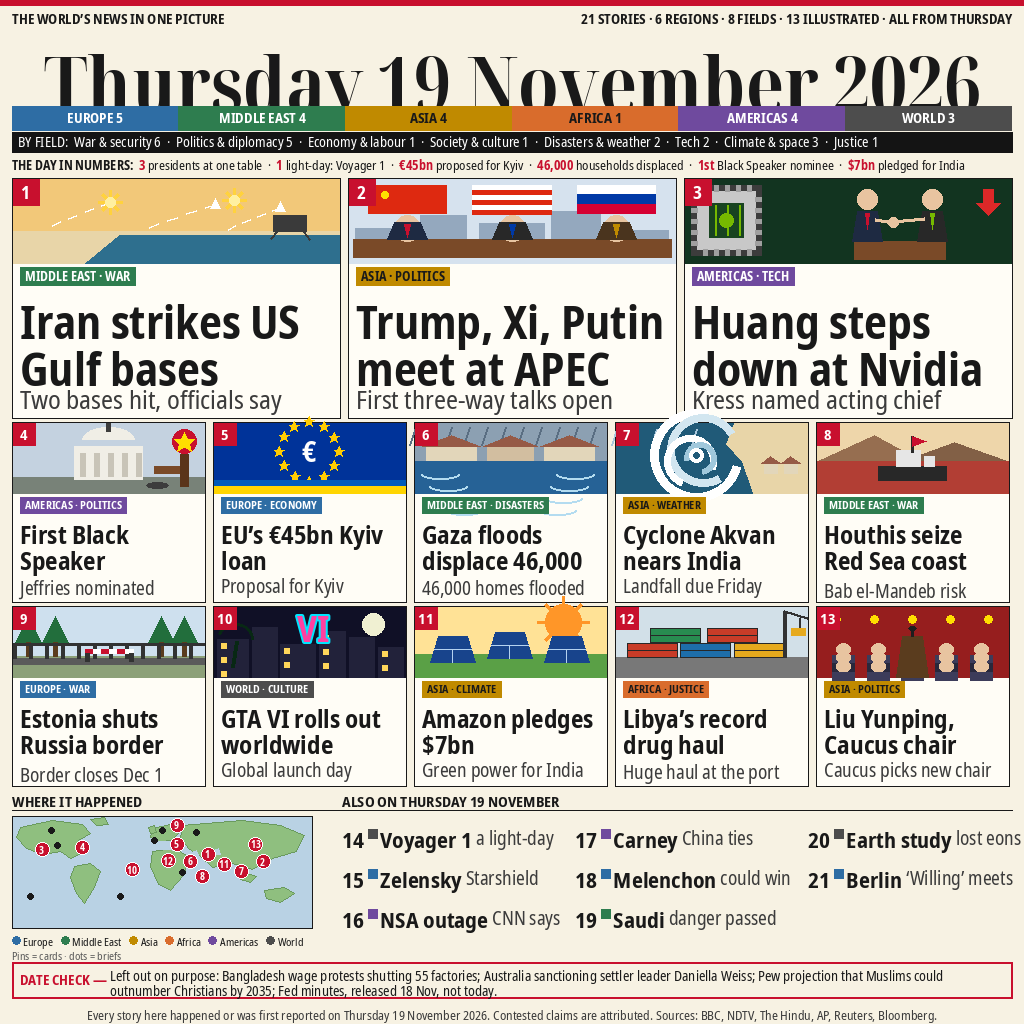
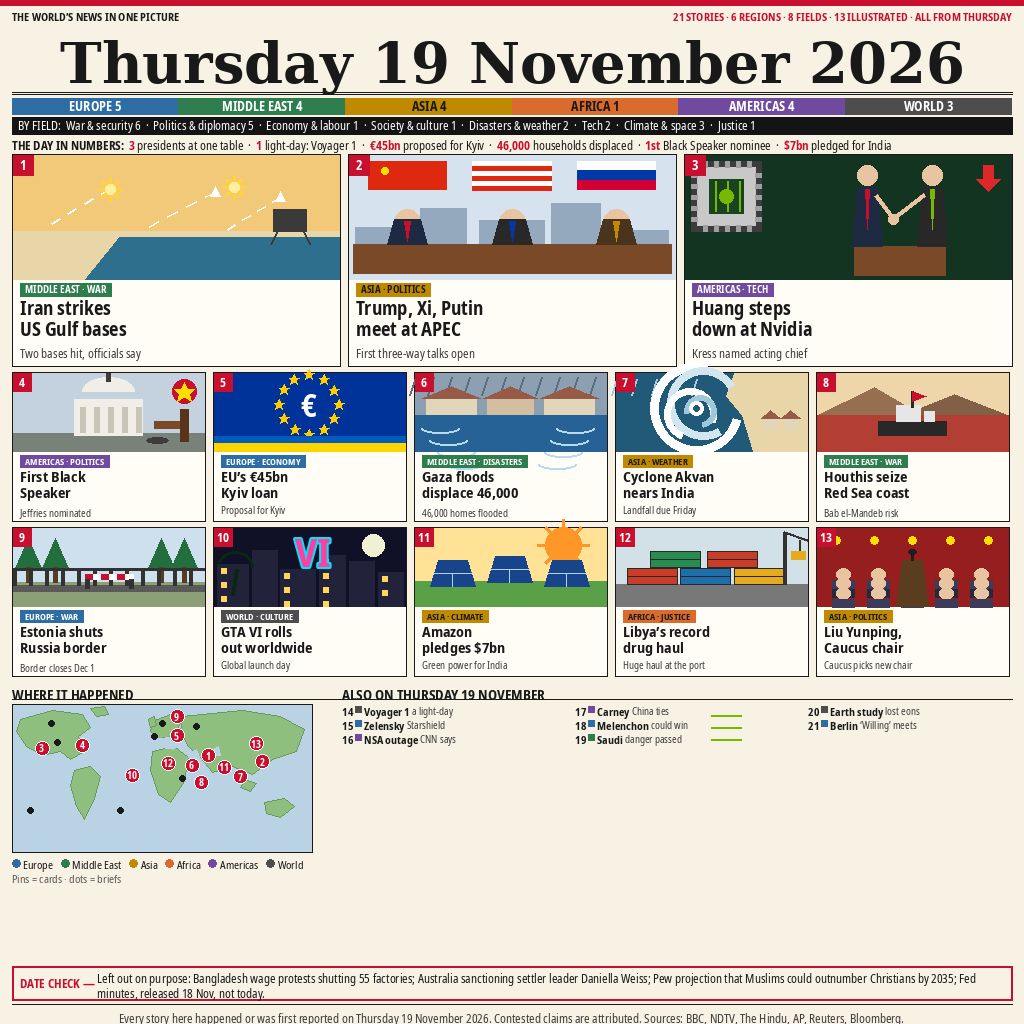
news-image-20261119 v1 fix: match reference proportions
User feedback: v1 fonts too big / not proportional vs the rank-1 reference.
Measured the reference (ronigrv, 18 Nov) by glyph measurement and rescaled
everything to its rendered cap heights, not model guesses:
- masthead: Noto Serif Display Condensed Bold 76px (cap 55) -> DejaVu Serif
  Bold 56px (cap 41, ink-top y=40, spans ~930px); double rule at y=92/94
- region bar 24px -> 16px (y=98), field bar 20px -> 17px (y=117)
- big headlines 46px (cap 33) -> 19px (cap 14), decks 26px -> 12px (cap 9)
- small headlines 25px (cap 18) -> 15px (cap 11), decks 19px -> 10px (cap 7)
- briefs 22/19px -> 11/10px, 13px pitch; top strip 14px -> 11px, right red
- big cards y178 h240 -> y154 h212; small rows y422/606 h180 -> y372/527 h149
- illustrations get the freed height: big 124px (58%), small 78px (52%)
- headlines now 2 balanced lines (reference pattern); decks bottom-anchored
  with ink-to-ink gap check; bottom section mirrors reference (headers y685,
  map 300x148, DATE CHECK y966, footer y1010 with rule at y1004)
No wording, story, bar, map, DATE CHECK or footer text changes.
Verified full-size + 300px: zero overlap/truncation, no shrink warnings.

diff --git a/compose.py b/compose.py
@@ -9,15 +9,23 @@ file's own Fed-minutes fallback applied (minutes were released 18 Nov, so the
 Fed item moved to DATE CHECK and Liu Yunping was promoted to lead 13; a
 verified 19-Nov brief, Coalition of the Willing meets in Berlin, fills #21).
 
-Type scale (better-typography: 3 faces, size by role, no light weights):
-  masthead  Noto Serif Display Condensed Bold, ~76px, lh 1.05
-  headlines Noto Sans Condensed Bold, 46px big cards / 27px small cards
-  decks     Noto Sans Condensed, 26px big / 19px small
-  labels    Noto Sans Condensed Bold, 12-14px, uppercase
-  briefs    Noto Sans Condensed Bold 22px lead-in / 19px body
-  footer    Noto Sans Condensed 13px
+Type scale (better-typography: 3 faces, size by role, no light weights).
+MEASURED from the reference (ronigrv rank-1, 18 Nov, 1024 canvas) by glyph
+measurement, not guessed: masthead cap 41px; big headlines cap 14px in 335px
+cards (ratio .042), decks cap 9px; small headlines cap 11px in 193px cards,
+decks cap 7px; briefs cap 7px; region bar 16px, field bar 17px; big-card
+illustration 63% of card height, small-card 54%. Our sizes below are set so
+the RENDERED CAP HEIGHTS match those numbers (Noto cap/em ~0.72):
+  masthead  DejaVu Serif Bold 56px (cap 41, spans ~930px like the reference)
+  headlines Noto Sans Condensed Bold, 19px big cards / 15px small cards
+  decks     Noto Sans Condensed, 12px big / 10px small
+  labels    Noto Sans Condensed Bold, 10px big / 9px small, uppercase
+  briefs    Noto Sans Condensed Bold 11px lead-in / 10px body
+  footer    Noto Sans Condensed 12px
 Layout (better-layout): 12px shared margins, 8px gaps between card groups,
 4px gaps inside cards, one card style, square corners (newsprint).
+Card geometry mirrors the reference: big cards y154 h212, small rows y372 /
+y527 h149, bottom headers y685, map 300x148, DATE CHECK y966, footer y1010.
 Colour (better-colors): one hue per region, red only for badges/emphasis;
 text on gold/orange segments is black (measured contrast), white elsewhere.
 """
@@ -61,6 +69,7 @@ FD = "/usr/share/fonts/truetype/noto"
 SERIFD = os.path.join(FD, "NotoSerifDisplay-CondensedBold.ttf")
 SANSB  = os.path.join(FD, "NotoSans-CondensedBold.ttf")
 SANS   = os.path.join(FD, "NotoSans-Condensed.ttf")
+DEJAVU_BOLD = "/usr/share/fonts/truetype/dejavu/DejaVuSerif-Bold.ttf"
 
 
 def font(path, size):
@@ -518,52 +527,82 @@ FOOTER = ("Every story here happened or was first reported on Thursday 19 Novemb
 
 
 # ---------------------------------------------------------------- layout
+def balance2(text, f, max_w):
+    """Split text into 2 balanced lines (reference headlines are all 2 lines).
+    Picks the split point minimising the widest line; falls back to greedy wrap."""
+    words = text.split()
+    if len(words) < 2:
+        return [text]
+    best = None
+    for i in range(1, len(words)):
+        a, b = " ".join(words[:i]), " ".join(words[i:])
+        if f.getlength(a) <= max_w and f.getlength(b) <= max_w:
+            w = max(f.getlength(a), f.getlength(b))
+            if best is None or w < best[0]:
+                best = (w, [a, b])
+    return best[1] if best else wrap(text, f, max_w, 2)
+
+
 def draw_card(d, card, x, y, w, h, big):
     d.rectangle([x, y, x + w, y + h], fill=CARD, outline=INK, width=1)
-    ill_h = 84 if big else 70
+    # illustration (reference: 63% of card height big, 54% small)
+    ill_h = 124 if big else 78
     card["ill"](d, x + 1, y + 1, w - 2, ill_h)
     # number badge (red = emphasis only, better-colors: one meaning)
-    bs = 26 if big else 22
+    # reference: ~20px big, ~18px small
+    bs = 20 if big else 18
     d.rectangle([x + 1, y + 1, x + 1 + bs, y + 1 + bs], fill=RED)
-    bf = font(SANSB, 18 if big else 15)
+    bf = font(SANSB, 13 if big else 12)
     d.text((x + 1 + bs / 2, y + 1 + bs / 2), str(card["n"]), font=bf,
            fill=(255, 255, 255), anchor="mm")
-    # region tag pill
+    # region tag pill (reference: pill ~13px, text cap ~7px)
     col = REGIONS[card["region"]]
     tx, ty = x + 8, y + ill_h + 5
     tag = f"{card['region']} · {card['field']}"
-    tf = font(SANSB, 13 if big else 11)
+    tf = font(SANSB, 10 if big else 9)
     tw = tf.getlength(tag)
-    th = 18 if big else 16
+    th = 13 if big else 12
     d.rectangle([tx, ty, tx + tw + 10, ty + th], fill=col)
     d.text((tx + 5, ty + th / 2), tag, font=tf, fill=REGION_TEXT[card["region"]],
            anchor="lm")
-    # headline (balanced 2-line wrap, better-typography). Placement is measured
-    # from the fonts' real ink boxes (PIL anchor "la" + Noto's 50/14 ascent/
-    # descent at 46px), not from nominal sizes, so deck can never touch it.
+    # headline: 2 balanced lines (reference headlines are all 2 lines).
+    # Placement is measured from the fonts' real ink boxes (cap-top 5px below
+    # the tag), not from nominal sizes, so the deck can never touch it.
     hx = x + 8
     hw = w - 16
-    hy = ty + th + 4
-    hsize = 46 if big else 25
+    hsize = 19 if big else 15
     hf = font(SANSB, hsize)
-    lh = 47 if big else 26
-    lines = wrap(card["headline"], hf, hw, 2)
+    lh = 21 if big else 16
+    ascent, descent = hf.getmetrics()
+    cap = hf.getbbox("H")[3] - hf.getbbox("H")[1]
+    hy = ty + th + 5 - (ascent - cap)
+    lines = balance2(card["headline"], hf, hw)
     if any("…" in ln for ln in lines):
         print(f"  WARNING truncated headline card {card['n']}: {card['headline']!r}")
     for i, line in enumerate(lines):
         d.text((hx, hy + i * lh), line, font=hf, fill=INK)
-    head_bottom = max(hy + i * lh + hf.getbbox(ln)[3] for i, ln in enumerate(lines))
-    # deck, one line: below the headline ink with a 4px gap, ink bottom 4px
-    # above the card edge; shrink the deck font if it cannot fit both.
-    dsize = 26 if big else 19
-    while dsize >= (22 if big else 16):
+    head_ink_bottom = (hy + (len(lines) - 1) * lh + ascent
+                       + (descent if any(c in "gjpqy" for ln in lines for c in ln) else 0))
+    # deck, one line: bottom-anchored, ink bottom 4px above the card edge,
+    # with at least a 2px gap below the headline ink; shrink if it cannot fit.
+    dsize = 12 if big else 10
+    df = font(SANS, dsize)
+    while dsize > (10 if big else 8):
         df = font(SANS, dsize)
-        db = df.getbbox(card["deck"])
-        dy = max(head_bottom + 4 - db[1], y + h - 4 - db[3])
-        if dy + db[3] <= y + h - 2:
+        dasc, ddesc = df.getmetrics()
+        deff = ddesc if any(c in "gjpqy" for c in card["deck"]) else 0
+        dy = (y + h - 4) - (dasc + deff)
+        # compare INK to ink: the deck's ink starts (ascent - cap) below its
+        # anchor, so a 2px ink gap is dy + (dasc - cap) - head_ink_bottom
+        dcap = df.getbbox("H")[3] - df.getbbox("H")[1]
+        if dy + (dasc - dcap) - head_ink_bottom >= 2:
             break
         dsize -= 1
-    if dsize < (26 if big else 19):
+    df = font(SANS, dsize)
+    dasc, ddesc = df.getmetrics()
+    deff = ddesc if any(c in "gjpqy" for c in card["deck"]) else 0
+    dy = (y + h - 4) - (dasc + deff)
+    if dsize < (12 if big else 10):
         print(f"  deck shrunk card {card['n']} to {dsize}px")
     if df.getlength(card["deck"]) > hw:
         print(f"  WARNING deck overflow card {card['n']}: {card['deck']!r}")
@@ -647,45 +686,55 @@ def main():
     log = []
 
     # top red rule + strip (better-layout: shared 12px edges)
+    # reference: strip text cap ~8px -> 11px; right half RED
     d.rectangle([0, 0, W, 5], fill=RED)
-    sf = font(SANSB, 14)
+    sf = font(SANSB, 11)
     d.text((M, 9), "THE WORLD\u2019S NEWS IN ONE PICTURE", font=sf, fill=INK)
     right = "21 STORIES \u00b7 6 REGIONS \u00b7 8 FIELDS \u00b7 13 ILLUSTRATED \u00b7 ALL FROM THURSDAY"
-    d.text((W - M, 9), right, font=sf, fill=INK, anchor="ra")
+    d.text((W - M, 9), right, font=sf, fill=RED, anchor="ra")
 
-    # masthead: serif display, fitted to the content width
-    mf, msize = fit_font(SERIFD, "Thursday 19 November 2026", CW, 76)
+    # masthead: serif, fitted to the content width, ink-top at y=40
+    # (reference: cap height 41px; DejaVu Serif Bold 56px gives cap ~41 and
+    # spans ~930px, closest metric match of the candidates measured)
+    mf, msize = fit_font(DEJAVU_BOLD, "Thursday 19 November 2026", CW, 56)
     log.append(f"masthead size {msize}")
-    d.text((W // 2, 30), "Thursday 19 November 2026", font=mf, fill=INK, anchor="ma")
+    bb = d.textbbox((W // 2, 0), "Thursday 19 November 2026", font=mf, anchor="ma")
+    d.text((W // 2, 40 - bb[1]), "Thursday 19 November 2026", font=mf,
+           fill=INK, anchor="ma")
+    # double rule under the masthead (reference: full-width rules at y=92, 94)
+    d.line([M, 92, M + CW, 92], fill=INK, width=1)
+    d.line([M, 94, M + CW, 94], fill=INK, width=1)
 
     # region bar: 6 equal segments, counts = region totals
-    ry, rh = 106, 24
+    # reference: y=98, height 16px
+    ry, rh = 98, 16
     seg = CW / 6
-    rf = font(SANSB, 14)
+    rf = font(SANSB, 13)
     for i, (name, count) in enumerate(REGION_COUNTS.items()):
         x0 = M + i * seg
         d.rectangle([x0, ry, x0 + seg, ry + rh], fill=REGIONS[name])
         d.text((x0 + seg / 2, ry + rh / 2), f"{name} {count}", font=rf,
                fill=REGION_TEXT[name], anchor="mm")
 
-    # field bar: black, white text, fitted
-    fy, fh = 132, 20
+    # field bar: black, white text, fitted (reference: y=117, height 17px)
+    fy, fh = 117, 17
     d.rectangle([M, fy, M + CW, fy + fh], fill=BAR_BLK)
     field_txt = "BY FIELD:  " + "  \u00b7  ".join(f"{n} {c}" for n, c in FIELD_COUNTS)
-    ff, fsize = fit_font(SANS, field_txt, CW - 12, 14)
+    ff, fsize = fit_font(SANS, field_txt, CW - 12, 12)
     log.append(f"field bar size {fsize}")
     d.text((M + 6, fy + fh / 2), field_txt, font=ff, fill=(255, 255, 255),
            anchor="lm")
 
     # day-in-numbers: date-stamped facts only, numbers in red
-    ny = 156
+    # reference: strip sits just below the field bar, ~12px type
+    ny = 137
     parts = [("THE DAY IN NUMBERS:  ", INK, True)]
     for i, (num, txt) in enumerate(NUMBERS):
         if i:
             parts.append(("  \u00b7  ", INK, False))
         parts.append((num + " ", RED, True))
         parts.append((txt, INK, False))
-    nf, nsize = fit_font(SANS, "".join(p[0] for p in parts), CW, 14)
+    nf, nsize = fit_font(SANS, "".join(p[0] for p in parts), CW, 12)
     nfb = font(SANSB, nsize)
     log.append(f"numbers strip size {nsize}")
     cx = M
@@ -695,24 +744,26 @@ def main():
         cx += f.getlength(txt)
 
     # lead cards: 3 big + 5 + 5 (ronigrv skeleton, own art)
+    # reference geometry: big y154 h212; small rows y372 / y527 h149
     big_w, gap = 328, 8
     for i, card in enumerate(LEADS[:3]):
-        draw_card(d, card, M + i * (big_w + gap), 178, big_w, 240, big=True)
+        draw_card(d, card, M + i * (big_w + gap), 154, big_w, 212, big=True)
     sm_w = (CW - 4 * gap) // 5
     for row, cards in enumerate((LEADS[3:8], LEADS[8:13])):
-        y0 = 422 + row * 184
+        y0 = 372 + row * 155
         for i, card in enumerate(cards):
-            draw_card(d, card, M + i * (sm_w + gap), y0, sm_w, 180, big=False)
+            draw_card(d, card, M + i * (sm_w + gap), y0, sm_w, 149, big=False)
 
-    # bottom: map left, briefs right
-    by = 790
-    tf = font(SANSB, 15)
+    # bottom: map left, briefs right (reference: headers y685, rule y699,
+    # map 300x148 from y704, legend ~y857)
+    by = 685
+    tf = font(SANSB, 14)
     d.text((M, by), "WHERE IT HAPPENED", font=tf, fill=INK)
     d.text((342, by), "ALSO ON THURSDAY 19 NOVEMBER", font=tf, fill=INK)
-    d.line([M, by + 20, M + CW, by + 20], fill=INK, width=1)
-    draw_map(d, M, by + 26, 300, 112)
+    d.line([M, by + 14, M + CW, by + 14], fill=INK, width=1)
+    draw_map(d, M, by + 19, 300, 148)
     # map legend
-    ly = by + 144
+    ly = by + 172
     lf = font(SANS, 11)
     lx = M
     for name in ("EUROPE", "MIDDLE EAST", "ASIA", "AFRICA", "AMERICAS", "WORLD"):
@@ -723,39 +774,40 @@ def main():
     d.text((M, ly + 14), "Pins = cards \u00b7 dots = briefs", font=lf, fill=(90, 90, 90))
 
     # briefs: 3 columns, one line each, bold lead-in + region bullet
+    # reference: cap 7px -> 10px type, ~13px line pitch
     bx0, bw = 342, 223
     cols = [[BRIEFS[0], BRIEFS[1], BRIEFS[2]],
             [BRIEFS[3], BRIEFS[4], BRIEFS[5]],
             [BRIEFS[6], BRIEFS[7]]]
     for ci, col in enumerate(cols):
         for ri, (n, lead, body, region) in enumerate(col):
-            yy = by + 34 + ri * 40
-            # fit: start at the 22/19 floor, shrink only if the line overflows
-            for lsz, bsz in ((22, 19), (20, 18), (18, 16)):
+            yy = by + 19 + ri * 14
+            # fit: start at 11/10, shrink only if the line overflows
+            for lsz, bsz in ((11, 10), (10, 10), (10, 9)):
                 lf2, bf2 = font(SANSB, lsz), font(SANS, bsz)
                 num_w = lf2.getlength(f"{n} ")
-                total = num_w + 12 + lf2.getlength(lead) + bf2.getlength(" " + body)
+                total = num_w + 9 + lf2.getlength(lead) + bf2.getlength(" " + body)
                 if total <= bw:
                     break
             else:
-                lsz, bsz = 18, 16
+                lsz, bsz = 10, 9
                 lf2, bf2 = font(SANSB, lsz), font(SANS, bsz)
-            if (lsz, bsz) != (22, 19):
+            if (lsz, bsz) != (11, 10):
                 log.append(f"brief {n} shrunk to {lsz}/{bsz}")
             xx = bx0 + ci * (bw + 10)
             d.text((xx, yy), f"{n} ", font=lf2, fill=INK)
             xx += lf2.getlength(f"{n} ")
-            d.rectangle([xx, yy + 5, xx + 9, yy + 14], fill=REGIONS[region])
-            xx += 12
+            d.rectangle([xx, yy + 2, xx + 6, yy + 8], fill=REGIONS[region])
+            xx += 9
             d.text((xx, yy), lead, font=lf2, fill=INK)
             xx += lf2.getlength(lead)
             d.text((xx, yy), " " + body, font=bf2, fill=(60, 60, 60))
 
-    # DATE CHECK: red border, prominent, short
-    dy, dh = 962, 36
+    # DATE CHECK: red border, prominent, short (reference: ~y970, 2 lines ~12px)
+    dy, dh = 966, 34
     d.rectangle([M, dy, M + CW, dy + dh], outline=RED, width=2)
-    df = font(SANS, 14)
-    dfb = font(SANSB, 14)
+    df = font(SANS, 12)
+    dfb = font(SANSB, 12)
     label = "DATE CHECK \u2014 "
     d.text((M + 8, dy + dh / 2), label, font=dfb, fill=RED, anchor="lm")
     rest = DATE_CHECK
@@ -765,10 +817,11 @@ def main():
                fill=INK)
     log.append(f"date-check lines {len(lines)}")
 
-    # footer
-    ff2, f2size = fit_font(SANS, FOOTER, CW, 13)
+    # footer (reference: full-width rule at y=1004, text ~y1010, ~12px)
+    d.line([M, 1004, M + CW, 1004], fill=INK, width=1)
+    ff2, f2size = fit_font(SANS, FOOTER, CW, 12)
     log.append(f"footer size {f2size}")
-    d.text((W // 2, 1006), FOOTER, font=ff2, fill=(60, 60, 60), anchor="ma")
+    d.text((W // 2, 1010), FOOTER, font=ff2, fill=(60, 60, 60), anchor="ma")
 
     # contrast audit (better-colors: measure, don't estimate)
     for name, col in REGIONS.items():
